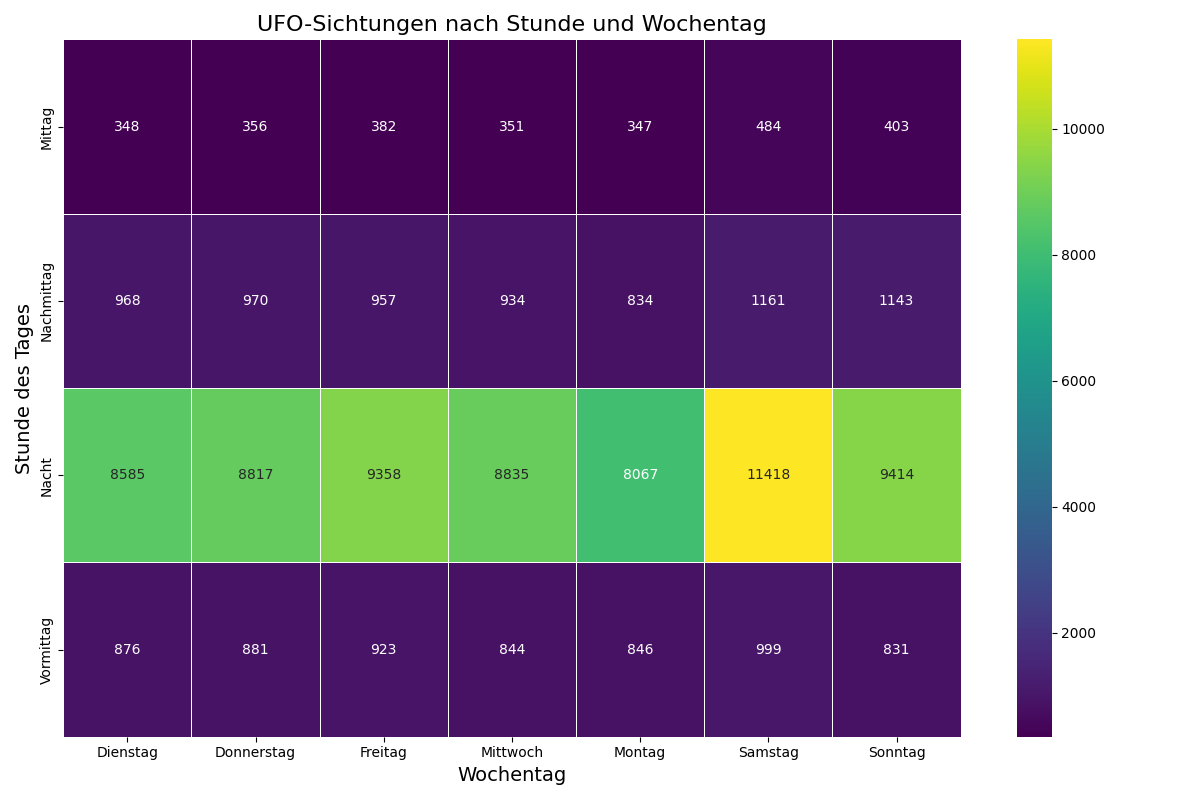
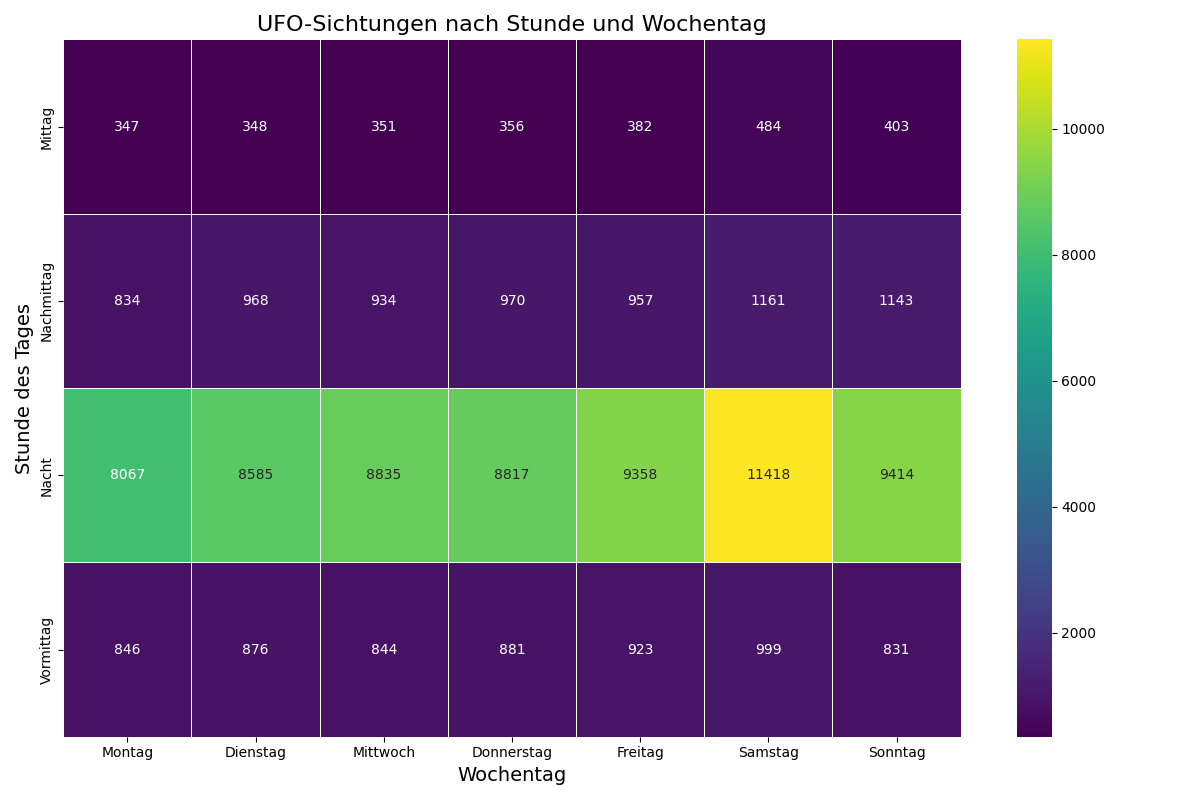
Lauras heatmap fix

diff --git a/scripts/data_cleanup/scrape_launch_dates.py b/scripts/data_cleanup/scrape_launch_dates.py
@@ -4,9 +4,9 @@ import pandas as pd
 import sys
 
 print("scrape_launch_dates gestartet.")
-
+# absoluter Pfad zum Root Verzeichnis:
 ROOT_DIR = sys.argv[1]
-
+                                # Root/data/data_raw/htm
 path_to_htm = os.path.join(ROOT_DIR, "data", "data_raw", "htm")      # Ordner mit HTML-Dateien
 
 all_dates = []
@@ -14,12 +14,14 @@ all_dates = []
 print("Scraping beginnt.")
 
 for filename in os.listdir(path_to_htm):
-    if filename.endswith(".htm"):
-        with open(os.path.join(path_to_htm, filename), "r", encoding="utf-8") as file:
-            soup = BeautifulSoup(file, "lxml")
-            date_cells = soup.find_all("td", class_="column-1")
-            dates = [cell.get_text(strip=True) for cell in date_cells]
-            all_dates.extend(dates)
+
+    if filename.endswith(".htm"):                                                           # Für alle Dateien mit htm Endung
+
+        with open(os.path.join(path_to_htm, filename), "r", encoding = "utf-8") as file:    # Öffnen der htm-Dateien
+            soup       = BeautifulSoup(file, "lxml")                                        # lxml Parser schneller als html Parser
+            date_cells = soup.find_all("td", class_ = "column-1")                           # Finde die gesuchten Einträge
+            dates      = [cell.get_text(strip = True) for cell in date_cells]               # ggfs Bereinigung der Einträge
+            all_dates.extend(dates)                                                         # Sammeln der Einträge
 
 print("Scraping endet.")
 

diff --git a/scripts/datetime_analysis/analyse_zeiträume.py b/scripts/datetime_analysis/analyse_zeiträume.py
@@ -237,7 +237,7 @@ ufo_sightings_df["weekday"] = datetime_clean.dt.day_name()  # Name des Wochentag
 
 # Konvertiere die Wochentage in eine kategorische Spalte mit der gewünschten Reihenfolge
 ufo_sightings_df["weekday"] = pd.Categorical(     # HAT NUR NAN, DESWEGEN KOMMEN DIE NULLEN
-    ufo_sightings_df["weekday"], 
+    ufo_sightings_df["weekday_name"], 
     categories=weekday_names, 
     ordered=True
 )
@@ -245,7 +245,7 @@ ufo_sightings_df["weekday"] = pd.Categorical(     # HAT NUR NAN, DESWEGEN KOMMEN
 # Pivot-Tabelle für Heatmap
 heatmap_data = ufo_sightings_df.pivot_table(
     index="zeitkategorie",         
-    columns="weekday",                            # Kommentar Patrick : columns="weekday_name" könnte helfen 
+    columns="weekday",         # Kommentar Patrick : columns="weekday_name" könnte helfen 
     values="datetime",    # Werte für die Heatmap (z. B. Anzahl der Sichtungen)
     aggfunc="count",      # Anzahl der Sichtungen
     fill_value=0          # Fülle fehlende Werte mit 0
